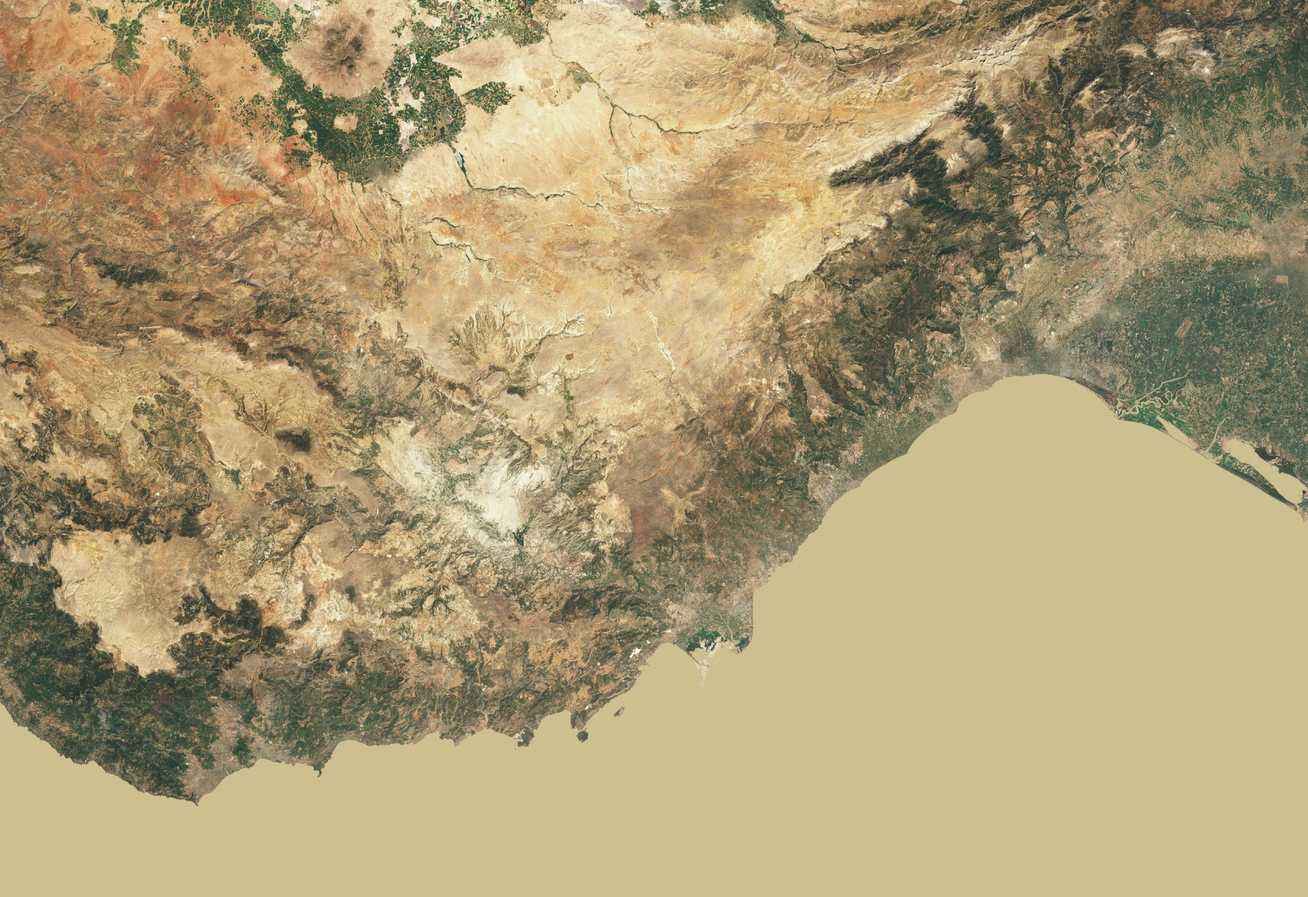
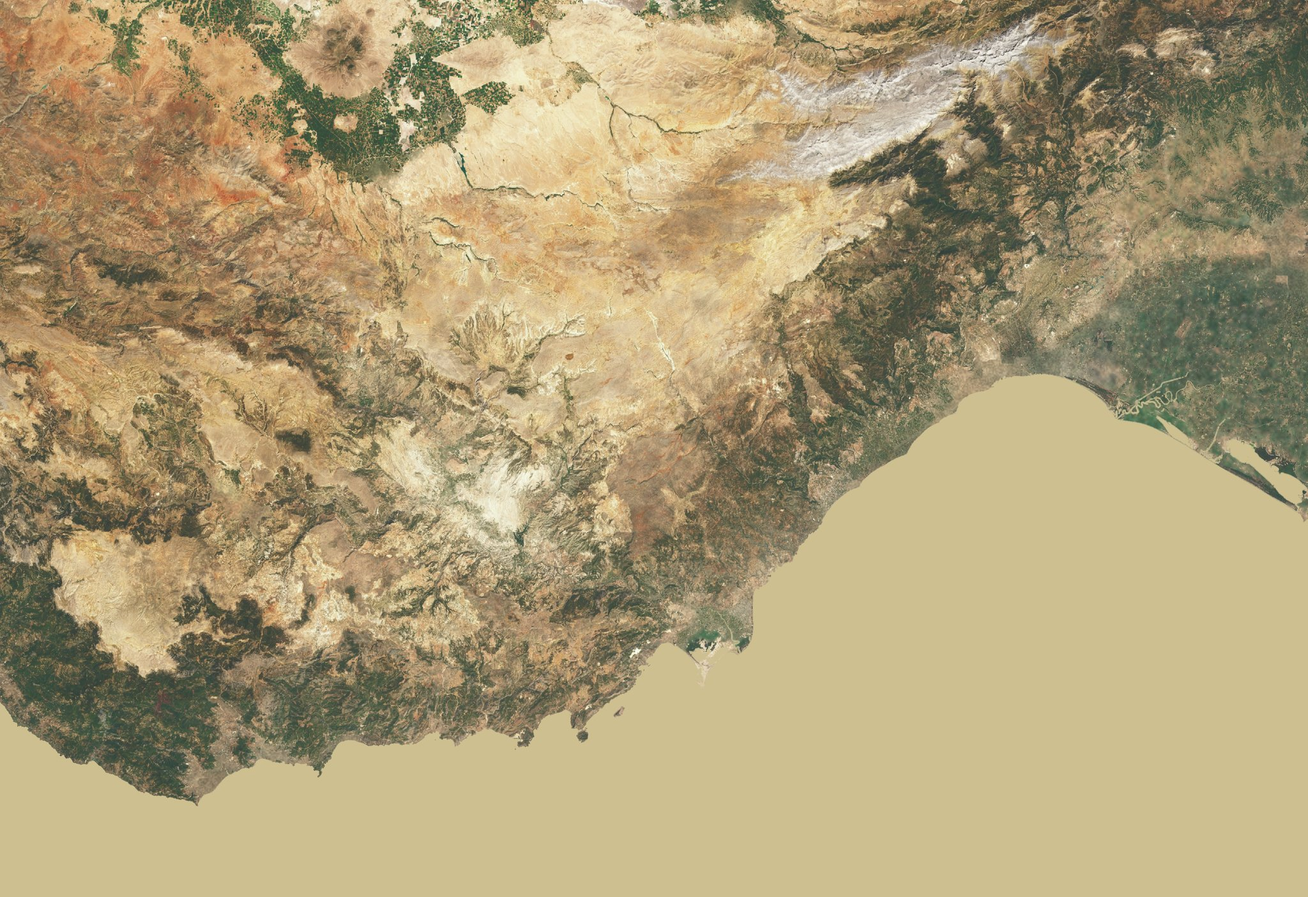
Terrain: summit greys and snow, softened plain fields, forest texture, tree fade, calmer sea (work in progress)
Claude-Session: https://claude.ai/code/session_01RcwKvWC9jgLcENAuLPuhEE

diff --git a/src/terrain.js b/src/terrain.js
@@ -54,7 +54,7 @@ export function coastDistance(heights) {
 
 // Ground colour and lighting detail come from textures built from satellite land cover and the 30 m DEM
 // (tools/build_terrain_data.py); the mesh carries the large-scale relief.
-export function buildTerrain(heights0, dist, step = 1, low = false) {
+export function buildTerrain(heights0, dist, step = 1, low = false, cover = null) {
   // optional decimation for low-power devices
   const w = Math.floor((GRID.w - 1) / step) + 1, h = Math.floor((GRID.h - 1) / step) + 1;
   const geo = new THREE.PlaneGeometry(WORLD.w, WORLD.d, w - 1, h - 1);
@@ -73,7 +73,11 @@ export function buildTerrain(heights0, dist, step = 1, low = false) {
   normalMap.anisotropy = 8;
   const mat = new THREE.MeshStandardMaterial({ map, normalMap, normalMapType: THREE.ObjectSpaceNormalMap, roughness: 0.96, metalness: 0 });
   // close-range grain: the textures are ~65 m per texel, so add fine variation when zoomed in
+  // tree-cover fraction (ESA WorldCover) as a texture, so forest has texture where no 3D trees are drawn
+  const coverTex = new THREE.DataTexture(cover ? new Uint8Array(cover.buffer.slice(0)) : new Uint8Array([0, 0, 0, 255]), cover ? GRID.w : 1, cover ? GRID.h : 1, THREE.RGBAFormat);
+  coverTex.flipY = true; coverTex.magFilter = coverTex.minFilter = THREE.LinearFilter; coverTex.needsUpdate = true;
   mat.onBeforeCompile = (sh) => {
+    sh.uniforms.uCover = { value: coverTex };
     sh.vertexShader = sh.vertexShader
       .replace('#include <common>', '#include <common>\nvarying vec3 vWp;')
       .replace('#include <begin_vertex>', '#include <begin_vertex>\nvWp = (modelMatrix * vec4(transformed, 1.0)).xyz;');
@@ -81,20 +85,25 @@ export function buildTerrain(heights0, dist, step = 1, low = false) {
       .replace('#include <common>', `#include <common>
         varying vec3 vWp;
         float h21(vec2 p){ p = fract(p*vec2(123.34, 456.21)); p += dot(p, p+45.32); return fract(p.x*p.y); }
+        uniform sampler2D uCover;
         float vn(vec2 p){ vec2 i = floor(p), f = fract(p); f = f*f*(3.0-2.0*f);
           return mix(mix(h21(i), h21(i+vec2(1,0)), f.x), mix(h21(i+vec2(0,1)), h21(i+vec2(1,1)), f.x), f.y); }`)
       .replace('#include <map_fragment>', `#include <map_fragment>
         float dd = length(cameraPosition - vWp);
-        float fade = 1.0 - smoothstep(6.0, 60.0, dd);
+        float near = 1.0 - smoothstep(3.0, 14.0, dd), mid = 1.0 - smoothstep(20.0, 120.0, dd);
+        vec3 cov = texture2D(uCover, vMapUv).rgb; // tree, shrub, crop fractions
+        // forest: crowns as dark clumps, coarser with distance so woods keep a texture beyond the 3D trees
+        float crowns = vn(vWp.xz*7.0)*0.5 + vn(vWp.xz*19.0)*0.3 + vn(vWp.xz*53.0)*0.2;
+        float wood = cov.r * smoothstep(0.25, 0.6, crowns + cov.r*0.35);
+        diffuseColor.rgb = mix(diffuseColor.rgb, diffuseColor.rgb*vec3(0.5, 0.62, 0.46), wood*(0.25 + 0.3*mid));
+        // open ground close up: pale limestone outcrops and stones, darker maquis tufts
         float n = vn(vWp.xz*6.0)*0.5 + vn(vWp.xz*23.0)*0.3 + vn(vWp.xz*71.0)*0.2;
-        diffuseColor.rgb *= mix(1.0, 0.86 + 0.28*n, fade);
-        // close up, break the forest colour into crowns and the open ground into stony, tufted patches
-        float near = 1.0 - smoothstep(4.0, 26.0, dd);
-        float canopy = smoothstep(0.03, 0.11, diffuseColor.g - diffuseColor.r);
-        float clump = vn(vWp.xz*31.0)*0.55 + vn(vWp.xz*97.0)*0.45;
-        diffuseColor.rgb *= mix(1.0, 0.66 + 0.62*clump, canopy*near);
-        float stone = smoothstep(0.62, 0.8, vn(vWp.xz*53.0 + 11.0));
-        diffuseColor.rgb = mix(diffuseColor.rgb, diffuseColor.rgb*1.16 + 0.03, stone*(1.0 - canopy)*near*0.6);`);
+        diffuseColor.rgb *= mix(1.0, 0.84 + 0.32*n, 1.0 - smoothstep(6.0, 60.0, dd));
+        float open = 1.0 - cov.r;
+        float stone = smoothstep(0.6, 0.78, vn(vWp.xz*41.0 + 11.0)*0.6 + vn(vWp.xz*120.0)*0.4);
+        diffuseColor.rgb = mix(diffuseColor.rgb, diffuseColor.rgb*1.22 + 0.04, stone*open*near*0.7);
+        float tuft = smoothstep(0.62, 0.8, vn(vWp.xz*67.0 + 3.0)) * (0.35 + cov.g*2.0);
+        diffuseColor.rgb = mix(diffuseColor.rgb, diffuseColor.rgb*vec3(0.55, 0.68, 0.5), min(1.0, tuft)*open*near*0.55);`);
   };
   // earth-coloured wall round the edge of the map, from the surface down to the plinth
   const edge = [];
@@ -113,7 +122,7 @@ export function buildTerrain(heights0, dist, step = 1, low = false) {
   // table-model plinth under the terrain
   const base = new THREE.Mesh(
     new THREE.BoxGeometry(WORLD.w + 5, 5, WORLD.d + 5),
-    new THREE.MeshStandardMaterial({ color: 0x2b2118, roughness: 0.7 }),
+    new THREE.MeshStandardMaterial({ color: 0x4d3d2c, roughness: 0.8 }),
   );
   base.position.y = -3.9;
   const g = new THREE.Group();
@@ -131,7 +140,7 @@ export function buildSea(heights, dist) {
   for (let i = 0; i < w * h; i++) {
     const m = heights[i];
     // depth proxy: distance offshore, over a shelf that is narrow below steep coasts and wide off the deltas
-    data[i * 4] = m < 0.5 ? Math.min(255, (dist[i] / (3.5 + 13 * Math.exp(-relief[i] / 70))) * 255) : 0;
+    data[i * 4] = m < 0.5 ? Math.min(255, (dist[i] / (1.3 + 15 * Math.exp(-relief[i] / 35))) * 255) : 0;
     data[i * 4 + 1] = m >= 0.5 ? 255 : 0; // land mask
     data[i * 4 + 3] = 255;
   }
@@ -143,7 +152,7 @@ export function buildSea(heights, dist) {
     transparent: true,
     uniforms: {
       uTime: { value: 0 }, uMap: { value: tex },
-      uShallow: { value: new THREE.Color(0x5fd0c8) }, uDeep: { value: new THREE.Color(0x0d4470) },
+      uShallow: { value: new THREE.Color(0x63b3b0) }, uDeep: { value: new THREE.Color(0x0d4470) },
       uSun: { value: new THREE.Color(0xffffff) }, uLight: { value: 1 },
       fogColor: { value: new THREE.Color() }, fogDensity: { value: 0 },
     },
@@ -161,10 +170,9 @@ export function buildSea(heights, dist) {
         vec3 c = mix(uShallow, uDeep, smoothstep(0.0, 0.55, depth));
         float d = length(cameraPosition - vWorld);
         c += 0.03*wave(vWorld.xz*0.9) * (1.0 - smoothstep(30.0, 110.0, d)); // ripples only where they resolve
-        // sun glitter
+        // (no point glitter: at map scale it read as debris on the water)
         vec3 v = normalize(cameraPosition - vWorld);
-        float gl = pow(max(0.0, wave(vWorld.xz*6.0+3.0)*wave(vWorld.zx*3.7-1.0)*0.5+0.5), 9.0) * (0.3+0.7*pow(1.0-v.y,2.0));
-        c += uSun * gl * 0.12 * (1.0 - smoothstep(6.0, 30.0, d)); // fades out before it can alias
+        c += uSun * 0.05 * pow(1.0 - v.y, 3.0); // soft sheen towards the horizon // fades out before it can alias
         // surf line breathing against the shore
         float shore = smoothstep(0.15, 0.6, land);
         float foam = smoothstep(0.55, 0.9, shore + 0.18*sin(uTime*1.4 + vWorld.x*1.3 + vWorld.z*1.7)) * (1.0-smoothstep(0.9,1.0,land));

diff --git a/src/main.js b/src/main.js
@@ -112,7 +112,7 @@ async function init() {
   }
   sampleH = makeSampler(heights);
   const dist = coastDistance(heights);
-  const terrain = buildTerrain(heights, dist, LOW ? 2 : 1, LOW);
+  const terrain = buildTerrain(heights, dist, LOW ? 2 : 1, LOW, cover);
   scene.add(terrain.group);
   sea = buildSea(heights, dist);
   scene.add(sea);
@@ -194,7 +194,7 @@ function buildRivers() {
     // the traces step from cell to cell; every third point through a spline gives a natural course
     const thin = pts.filter((_, k) => k % 3 === 0 || k === pts.length - 1);
     const curve = new THREE.CatmullRomCurve3(thin.map(([lon, lat]) => { const [x, z] = lonLatToXZ(lon, lat); return new THREE.Vector3(x, 0, z); }));
-    for (const p of curve.getSpacedPoints(pts.length * 4)) flat.push(p.x, groundY(p.x, p.z) + 0.05, p.z);
+    for (const p of curve.getSpacedPoints(pts.length * 10)) flat.push(p.x, groundY(p.x, p.z) + 0.08, p.z);
     const line = new Line2(new LineGeometry().setPositions(flat), riverMat);
     line.renderOrder = 1;
     scene.add(line);
@@ -272,9 +272,15 @@ async function loadLandcover(url) {
 function buildTrees(cover) {
   const geos = treeGeometries(), group = new THREE.Group(), chunks = [];
   const material = new THREE.MeshStandardMaterial({ roughness: 1, flatShading: true, vertexColors: true });
+  // trees shrink to nothing towards the edge of the drawn radius instead of stopping on a line
+  material.onBeforeCompile = (sh) => {
+    sh.uniforms.uTreeC = treeFade.c; sh.uniforms.uTreeR = treeFade.r;
+    sh.vertexShader = sh.vertexShader.replace('#include <common>', '#include <common>\nuniform vec3 uTreeC; uniform float uTreeR;')
+      .replace('#include <begin_vertex>', '#include <begin_vertex>\n#ifdef USE_INSTANCING\n transformed *= 1.0 - smoothstep(uTreeR * 0.6, uTreeR, distance(instanceMatrix[3].xz, uTreeC.xz));\n#endif');
+  };
   // hue, saturation, lightness per species (instance tint over the vertex tones)
   // crowns are kept a little darker than the forest floor colour so woods read as mass, not sparkle
-  const tint = { brutia: [0.27, 0.42, 0.15], nigra: [0.3, 0.4, 0.12], cedar: [0.38, 0.32, 0.13], fir: [0.4, 0.4, 0.1], olive: [0.21, 0.2, 0.25], carob: [0.28, 0.45, 0.15], juniper: [0.33, 0.25, 0.16], maquis: [0.25, 0.35, 0.17] };
+  const tint = { brutia: [0.27, 0.42, 0.15], nigra: [0.3, 0.4, 0.12], cedar: [0.38, 0.32, 0.13], fir: [0.4, 0.4, 0.1], olive: [0.21, 0.2, 0.19], carob: [0.28, 0.45, 0.15], juniper: [0.33, 0.25, 0.16], maquis: [0.25, 0.35, 0.17] };
   const geoOf = { brutia: 'brutia', nigra: 'nigra', cedar: 'cedar', fir: 'fir', olive: 'olive', carob: 'olive', juniper: 'olive', maquis: 'olive' };
   const CH = 32, cx = Math.ceil(GRID.w / CH), cz = Math.ceil(GRID.h / CH); // chunks of 32 x 32 cells (~8 km)
   const dens = LOW ? 0.45 : 1; // trees per fully forested cell (~260 m)
@@ -300,7 +306,7 @@ function buildTrees(cover) {
             : e < 1000 ? (u < 0.9 ? 'brutia' : 'carob') : e < 1350 ? (u < 0.6 ? 'nigra' : 'brutia') : e < 2000 ? (u < 0.45 ? 'cedar' : u < 0.75 ? 'fir' : u < 0.9 ? 'nigra' : 'juniper') : 'juniper';
         } else if (r < tree + shrub) kind = h < 900 ? 'maquis' : 'juniper';
         else kind = h < 500 ? (u < 0.7 ? 'olive' : 'carob') : 'olive';
-        const s = (kind === 'maquis' ? 0.5 : kind === 'juniper' ? 0.8 : 1.25) * (0.75 + rnd() * 0.5);
+        const s = (kind === 'maquis' ? 0.5 : kind === 'juniper' ? 0.8 : 1.25) * (0.6 + rnd() * 0.8);
         add(kind, x, z, metresToY(h) - 0.004, s);
       }
     }
@@ -324,11 +330,13 @@ function buildTrees(cover) {
   group.userData.chunks = chunks;
   return group;
 }
+const treeFade = { c: { value: new THREE.Vector3() }, r: { value: 20 } };
 // show only the tree chunks around the point the camera looks at (and none from far out)
 function updateTrees(dist) {
   if (!trees) return;
   // beyond ~40 km a tree is smaller than a pixel and the forest colour of the ground carries the canopy
   const r = Math.min(26, 12 + dist * 0.35) * (degraded ? 0.6 : 1), tx = controls.target.x, tz = controls.target.z, on = dist < 40;
+  treeFade.c.value.copy(controls.target); treeFade.r.value = r;
   for (const c of trees.userData.chunks) { const v = on && Math.hypot(c.x - tx, c.z - tz) < r + 6; for (const m of c.meshes) m.visible = v; }
 }
 
@@ -410,7 +418,7 @@ const L = {
   sun: [new THREE.Color(0xfff2dc), new THREE.Color(0xffb46e)],
   hemiSky: [new THREE.Color(0xdcecff), new THREE.Color(0xb9c2e6)],
   hemiGround: [new THREE.Color(0x8a7a5a), new THREE.Color(0x8a6a4a)],
-  shallow: [new THREE.Color(0x5fd0c8), new THREE.Color(0x6fc2b4)],
+  shallow: [new THREE.Color(0x63b3b0), new THREE.Color(0x6fb0a6)],
   deep: [new THREE.Color(0x0d4470), new THREE.Color(0x14406e)],
 };
 const sunDir = new THREE.Vector3();

diff --git a/tools/build_terrain_data.py b/tools/build_terrain_data.py
@@ -220,14 +220,26 @@ def main():
         done = modern & (wsum > 0.02) if R == 24 else modern
     grain = (noise(TEX_H, TEX_W, 4, 21) - 0.5) * 0.22 + (noise(TEX_H, TEX_W, 14, 22) - 0.5) * 0.16
     col[modern] *= (1 + grain[modern])[:, None]
+    # the plains: today's ruler-straight parcels (and an airfield) soften into a mottled patchwork of fields
+    plain = land & (lc == 40) & (ht < 250) & ~modern
+    soft = np.stack([box(box(col[..., k], 5), 5) for k in range(3)], -1)
+    mosaic = (noise(TEX_H, TEX_W, 7, 31) - 0.5) * 0.2 + (noise(TEX_H, TEX_W, 22, 32) - 0.5) * 0.14
+    col[plain] = soft[plain] * (1 + mosaic[plain])[:, None]
     # grade: lift the mosaic's dark tones a little and warm it towards a summer afternoon
     col = np.clip(col, 0, 1) ** 0.9
     g = col.mean(-1, keepdims=True); col = np.clip(g + (col - g) * 0.82, 0, 1)  # the summer mosaic is very orange
     col *= np.array([0.97, 1.0, 0.98], np.float32)
+    # the mosaic carries its own terrain shadows and the scene lights it again: open up the darkest tones
+    lum2 = col.mean(-1, keepdims=True); col += np.clip(0.3 - lum2, 0, 1) * 0.45
+    # the high Taurus is pale grey limestone and scree, not the ochre of a low-sun mosaic
+    alp = np.clip((box(ht, 2) - 2200) / 500, 0, 1)[..., None] * 0.6
+    grey = col.mean(-1, keepdims=True) * np.array([0.98, 0.99, 1.02], np.float32) * 1.12
+    col = col * (1 - alp) + np.clip(grey, 0, 1) * alp
     slope = np.hypot(dx, dz) / VEX
     def C(hexv): return np.array([(hexv >> 16) & 255, (hexv >> 8) & 255, hexv & 255], np.float32) / 255
     # permanent snow patches on the highest, gentlest ground of the Bolkar range
-    snow = np.clip((box(ht, 2) - 2950) / 350, 0, 1) * np.clip(1.2 - slope * 1.6, 0, 1) * (noise(TEX_H, TEX_W, 6, 9) > 0.45)
+    north = np.clip(0.5 + dz / np.maximum(np.hypot(dx, dz), 1e-4) * -0.5, 0, 1)  # 1 on north-facing slopes
+    snow = np.clip((box(ht, 2) - 2750) / 400, 0, 1) * np.clip(1.3 - slope * 1.2, 0, 1) * (0.35 + 0.65 * north) * (noise(TEX_H, TEX_W, 6, 9) > 0.42)
     col = col * (1 - snow[..., None] * 0.8) + C(0xf4f4f0) * snow[..., None] * 0.8
     shore = land & (ht < 3) & (box(sea.astype(np.float32), 2) > 0.05)
     col[shore] = col[shore] * 0.45 + C(0xd9cba0) * 0.55
